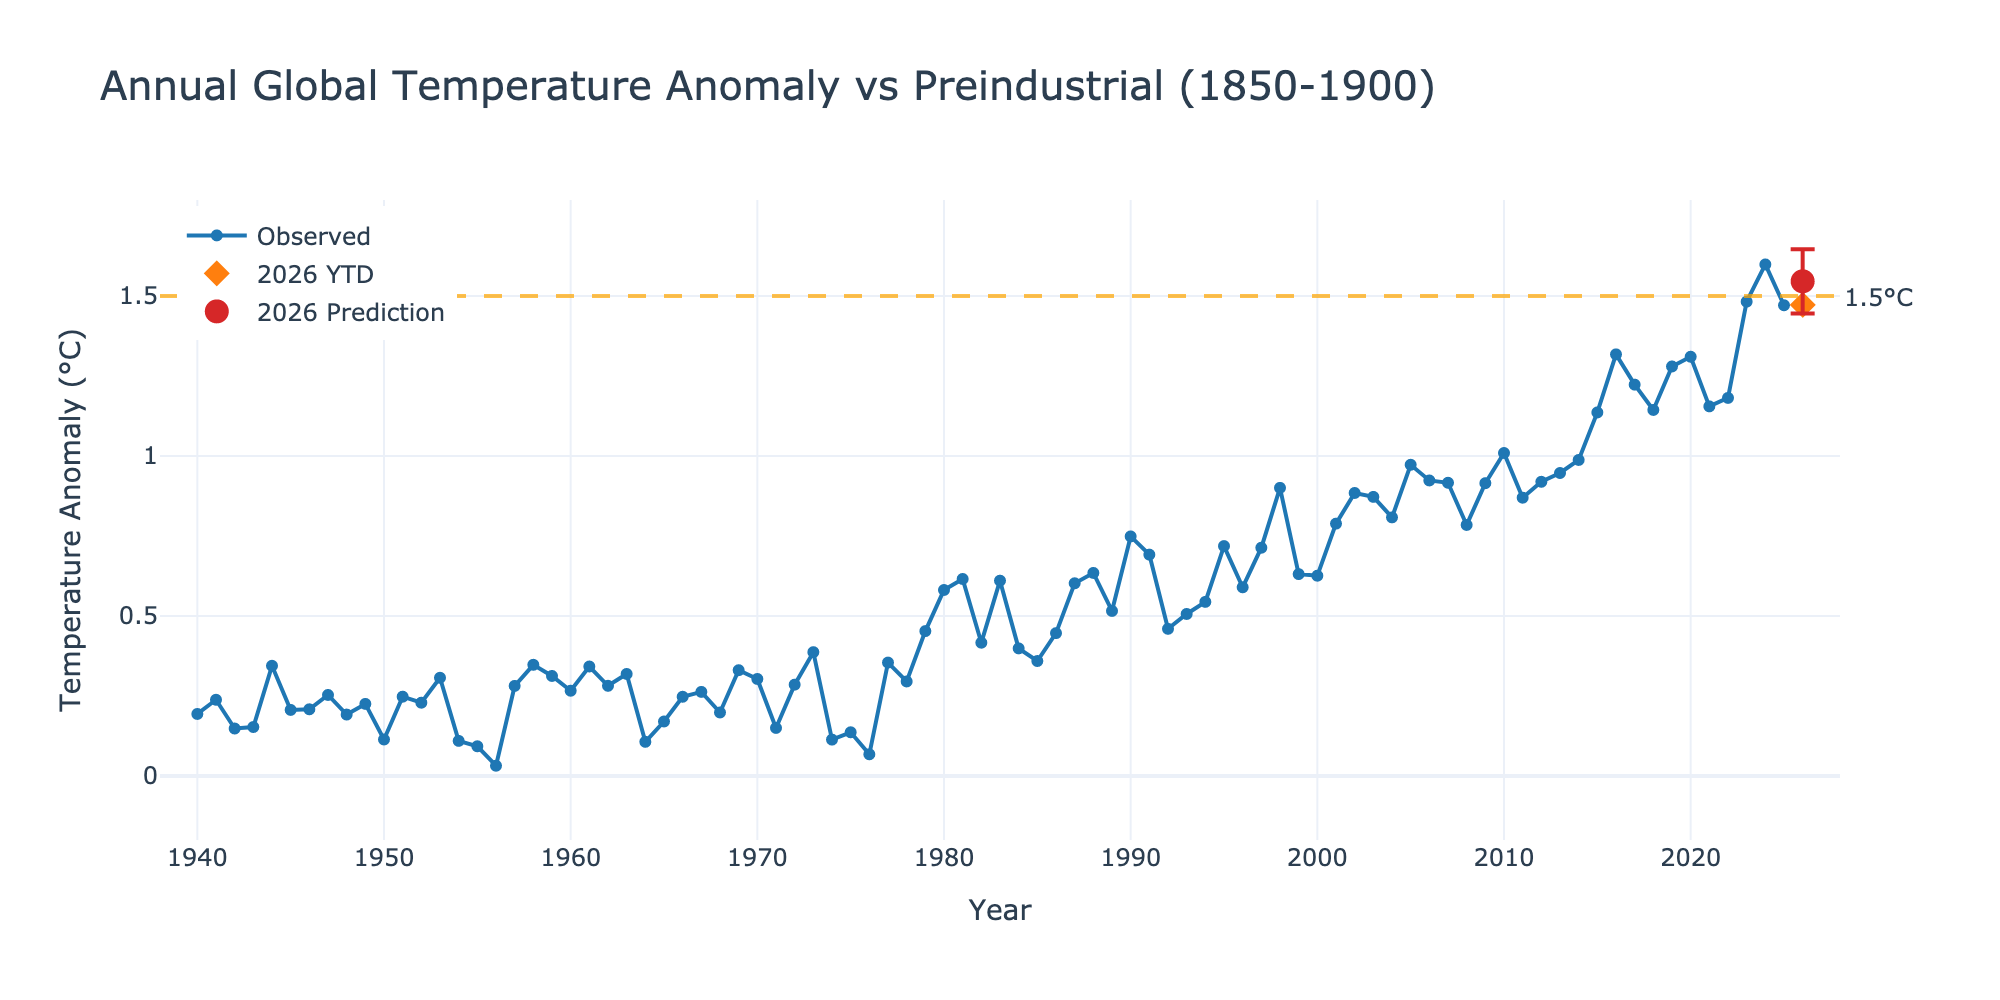
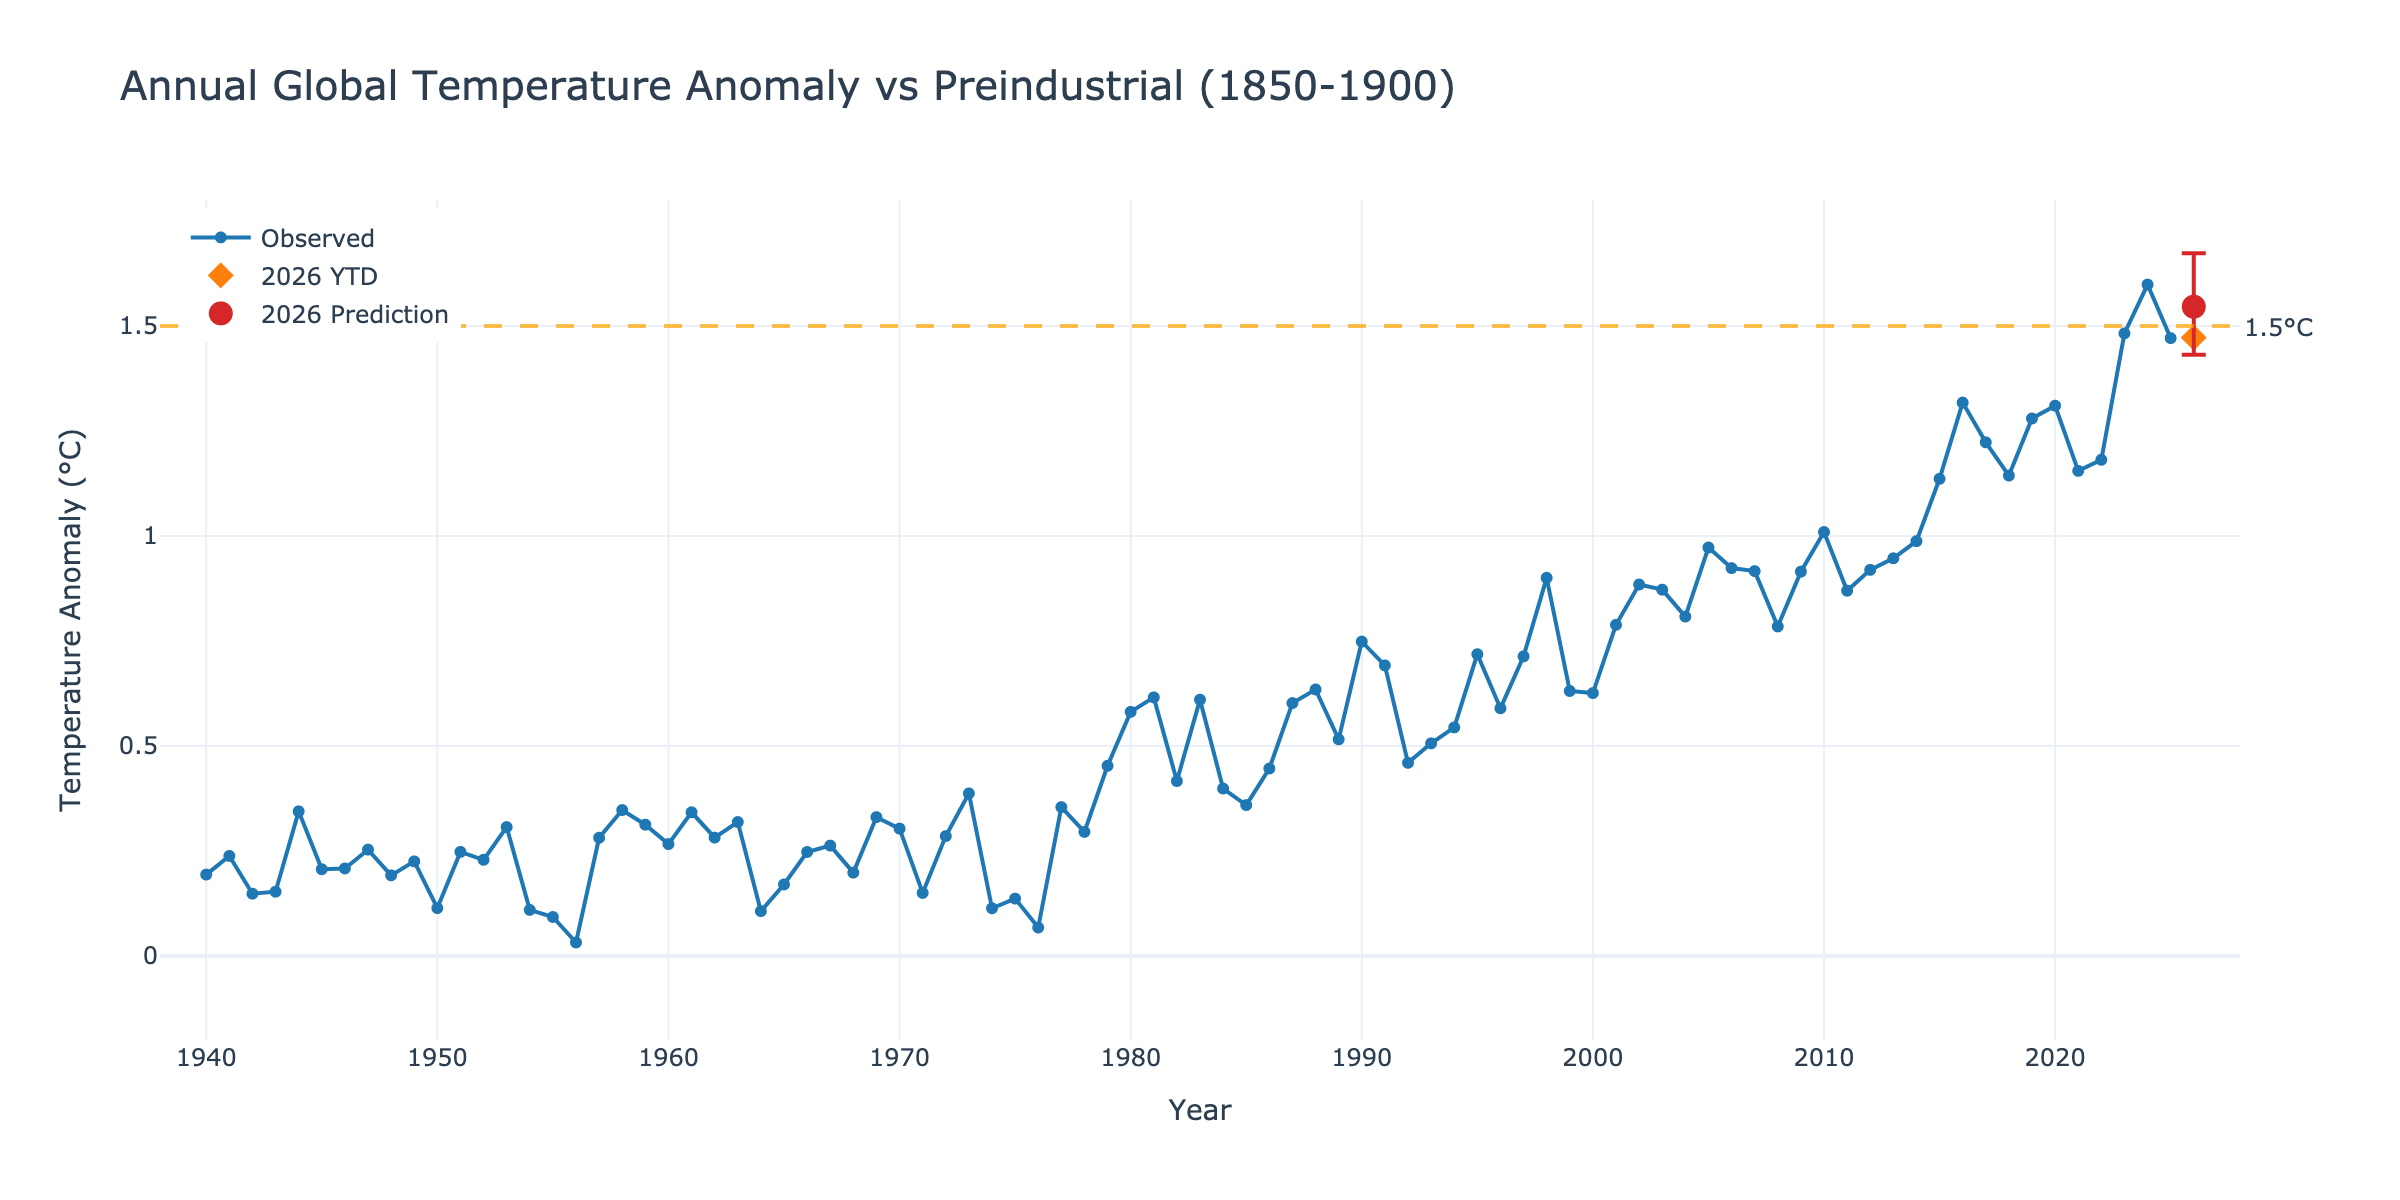
Monte Carlo over ENSO ensemble for annual prediction CI
The dashboard's annual projection feeds the regression a single ENSO
trajectory (the model-weighted multi-model median), so the published
±2σ band only reflects regression-residual uncertainty and ignores
forecast spread. Add a Monte Carlo step that samples per-member
ENSO trajectories with equal weight per model (so a 130-member forecast
doesn't drown out a 10-member one) and propagates them through the
fitted regression with a Gaussian residual draw.

The central estimate still uses the multi-model median (unchanged); the
2.5/97.5 percentile bounds replace the analytic ±2σ. For 2026 (May init)
the CI widens ~20% (0.20°C → 0.24°C) and skews mildly upward, reflecting
the right-skewed ENSO ensemble. Falls back to analytic ±2σ if member
fetch fails.

diff --git a/src/annual_prediction_mc.py b/src/annual_prediction_mc.py
@@ -1,0 +1,140 @@
+"""Monte Carlo over the multi-model ENSO ensemble for the dashboard's
+annual temperature prediction.
+
+The dashboard regression takes two ENSO features:
+- ``enso_obs``    — mean ONI for months already observed in the current year
+- ``enso_future`` — mean ONI for the remaining months of the year
+
+`enso_obs` is observation-based and has no ensemble uncertainty. `enso_future`
+is the model-weighted multi-model median, which collapses the ensemble down
+to a single trajectory and therefore omits forecast spread. This module
+re-introduces that spread by sampling individual ensemble members (with
+equal weight per model so a 130-member forecast doesn't drown out a
+10-member one) and propagating each draw through the regression.
+"""
+from __future__ import annotations
+import sys
+from pathlib import Path
+
+import numpy as np
+import pandas as pd
+
+DASHBOARD = Path(__file__).resolve().parent.parent
+SOURCES = ["CFS", "NMME", "C3S", "CanSIPS"]
+
+
+def load_enso_future_members(year: int, current_month: int) -> pd.DataFrame:
+    """Per-member mean ONI over months ``> current_month`` of ``year``.
+
+    Returns a DataFrame with columns ``model``, ``member_id``, ``enso_future``.
+    Only members with a forecast for *every* future month are kept, so the
+    per-member mean is comparable across the ensemble.
+    """
+    sys.path.insert(0, str(DASHBOARD))
+    sys.path.insert(0, str(DASHBOARD / "ENSO"))
+    from enso_forecast.normalize import load_all_forecasts
+    from enso_forecast.visualize import _build_mega_df, _get_forecast_only
+
+    forecast_df = load_all_forecasts(sources=SOURCES)
+    mega = _build_mega_df(_get_forecast_only(forecast_df))
+    members = mega[mega["member_id"] != "mean"].copy()
+    members["period"] = pd.to_datetime(members["target_month"]).dt.to_period("M")
+
+    future_periods = [
+        pd.Period(f"{year}-{m:02d}", "M")
+        for m in range(current_month + 1, 13)
+    ]
+    if not future_periods:
+        return pd.DataFrame(columns=["model", "member_id", "enso_future"])
+
+    members = members[members["period"].isin(future_periods)]
+    members = members.dropna(subset=["nino34_anom"])
+    pivot = members.pivot_table(
+        index=["model", "member_id"], columns="period",
+        values="nino34_anom", aggfunc="first",
+    )
+    full = pivot.dropna(how="any")
+    if full.empty:
+        return pd.DataFrame(columns=["model", "member_id", "enso_future"])
+    out = full.mean(axis=1).rename("enso_future").reset_index()
+    return out
+
+
+def _model_weights(members: pd.DataFrame) -> np.ndarray:
+    """Equal weight per model (1/n_models), split evenly across that model's
+    members."""
+    counts = members.groupby("model").size()
+    n_models = len(counts)
+    w = np.array([1.0 / (n_models * counts[m]) for m in members["model"]])
+    return w / w.sum()
+
+
+def monte_carlo_ci(
+    model,
+    scaler,
+    base_features: dict,
+    members: pd.DataFrame,
+    resid_std: float,
+    *,
+    feature_order: list[str],
+    n_draws: int = 10000,
+    seed: int = 0,
+) -> dict:
+    """Run Monte Carlo over ENSO members + Gaussian regression residuals.
+
+    Parameters
+    ----------
+    model, scaler
+        Fitted sklearn LinearRegression and StandardScaler.
+    base_features : dict
+        All non-ENSO-future features, keyed by name (e.g. ``year``,
+        ``prior_year_anomaly``, ``enso_obs``, ``trailing_anomaly``,
+        ``ytd_anomaly``).
+    members : DataFrame
+        Output of ``load_enso_future_members`` — one row per ensemble
+        member with column ``enso_future``.
+    resid_std : float
+        In-sample residual std of the regression (used as the σ of the
+        Gaussian residual draw).
+    feature_order : list[str]
+        Column ordering expected by ``scaler``/``model``.
+    n_draws : int
+        Total Monte Carlo draws.
+
+    Returns
+    -------
+    dict with keys ``median``, ``lb`` (2.5%), ``ub`` (97.5%), ``draws``,
+    ``n_members``, ``n_models``.
+    """
+    if members is None or members.empty:
+        raise ValueError("No ENSO members available for Monte Carlo.")
+
+    weights = _model_weights(members)
+    enso_future_vals = members["enso_future"].values
+    n_models = members["model"].nunique()
+
+    rng = np.random.default_rng(seed)
+    idx = rng.choice(len(members), size=n_draws, replace=True, p=weights)
+    sampled_enso = enso_future_vals[idx]
+
+    # Build feature matrix with sampled enso_future, holding all others fixed
+    X = np.tile(
+        np.array([base_features[c] for c in feature_order], dtype=float),
+        (n_draws, 1),
+    )
+    enso_idx = feature_order.index("enso_future")
+    X[:, enso_idx] = sampled_enso
+
+    X_scaled = scaler.transform(X)
+    point = model.predict(X_scaled)
+    residuals = rng.normal(0.0, resid_std, size=n_draws)
+    draws = point + residuals
+
+    return {
+        "median": float(np.median(draws)),
+        "lb": float(np.quantile(draws, 0.025)),
+        "ub": float(np.quantile(draws, 0.975)),
+        "draws": draws,
+        "n_members": len(members),
+        "n_models": int(n_models),
+    }

diff --git a/src/dashboard.py b/src/dashboard.py
@@ -965,17 +965,43 @@ def create_annual_prediction_plot(df: pd.DataFrame, enso_df: pd.DataFrame = None
                 X_pred_scaled = scaler.transform(X_pred)
                 pred = model.predict(X_pred_scaled)[0]
 
+                # Monte Carlo over ENSO ensemble members for the CI
+                lb, ub = pred - 2 * uncertainty, pred + 2 * uncertainty
+                try:
+                    from src.annual_prediction_mc import (
+                        load_enso_future_members, monte_carlo_ci,
+                    )
+                    members = load_enso_future_members(int(current_year), int(current_month))
+                    if not members.empty:
+                        mc = monte_carlo_ci(
+                            model, scaler,
+                            base_features={
+                                'year': current_year,
+                                'prior_year_anomaly': prior_year_anomaly,
+                                'enso_obs': enso_obs_val,
+                                'enso_future': enso_future_val,
+                                'trailing_anomaly': current_trailing_30d,
+                                'ytd_anomaly': current_ytd_anomaly,
+                            },
+                            members=members,
+                            resid_std=uncertainty,
+                            feature_order=feature_cols,
+                        )
+                        lb, ub = mc['lb'], mc['ub']
+                except Exception:
+                    pass  # fall back to analytic ±2σ
+
                 predictions.append({
                     'year': current_year,
                     'predicted': pred,
-                    'lb': pred - 2 * uncertainty,
-                    'ub': pred + 2 * uncertainty
+                    'lb': lb,
+                    'ub': ub,
                 })
 
                 prediction_2026 = {
                     'predicted': pred,
-                    'lb': pred - 2 * uncertainty,
-                    'ub': pred + 2 * uncertainty
+                    'lb': lb,
+                    'ub': ub,
                 }
 
     pred_df = pd.DataFrame(predictions) if predictions else pd.DataFrame()
@@ -1011,6 +1037,8 @@ def create_annual_prediction_plot(df: pd.DataFrame, enso_df: pd.DataFrame = None
 
     # Add prediction with error bar for current year
     if prediction_2026:
+        up = prediction_2026['ub'] - prediction_2026['predicted']
+        down = prediction_2026['predicted'] - prediction_2026['lb']
         fig.add_trace(go.Scatter(
             x=[current_year],
             y=[prediction_2026['predicted']],
@@ -1019,13 +1047,15 @@ def create_annual_prediction_plot(df: pd.DataFrame, enso_df: pd.DataFrame = None
             marker=dict(color=theme['prediction_color'], size=12, symbol='circle'),
             error_y=dict(
                 type='data',
-                array=[prediction_2026['ub'] - prediction_2026['predicted']],
+                symmetric=False,
+                array=[up],
+                arrayminus=[down],
                 visible=True,
                 color=theme['prediction_color'],
                 thickness=2,
                 width=6
             ),
-            hovertemplate=f'{current_year} Prediction<br>%{{y:.2f}}°C (±{prediction_2026["ub"] - prediction_2026["predicted"]:.2f}°C)<extra></extra>'
+            hovertemplate=f'{current_year} Prediction<br>%{{y:.2f}}°C (+{up:.2f}/-{down:.2f}°C)<extra></extra>'
         ))
 
     # Add 1.5°C reference line
@@ -1593,6 +1623,34 @@ def create_statistics_cards(df: pd.DataFrame) -> dict:
                     X_pred = np.array([[current_year, prev_year_mean, enso_obs_val, enso_future_val, current_trailing_30d, current_ytd_anomaly]])
                     X_pred_scaled = scaler.transform(X_pred)
                     annual_pred = model.predict(X_pred_scaled)[0]
+
+                    # Monte Carlo over ENSO ensemble members → CI half-width
+                    try:
+                        from src.annual_prediction_mc import (
+                            load_enso_future_members, monte_carlo_ci,
+                        )
+                        members = load_enso_future_members(int(current_year), int(current_month))
+                        if not members.empty:
+                            mc = monte_carlo_ci(
+                                model, scaler,
+                                base_features={
+                                    'year': current_year,
+                                    'prior_year_anomaly': prev_year_mean,
+                                    'enso_obs': enso_obs_val,
+                                    'enso_future': enso_future_val,
+                                    'trailing_anomaly': current_trailing_30d,
+                                    'ytd_anomaly': current_ytd_anomaly,
+                                },
+                                members=members,
+                                resid_std=annual_err,
+                                feature_order=['year', 'prior_year_anomaly', 'enso_obs',
+                                               'enso_future', 'trailing_anomaly', 'ytd_anomaly'],
+                            )
+                            # Express the (possibly asymmetric) MC CI as a half-width
+                            # so existing ±-style display logic stays sensible.
+                            annual_err = max((mc['ub'] - mc['lb']) / 4.0, 0.02)
+                    except Exception:
+                        pass  # fall back to analytic residual std
     except Exception as e:
         pass  # Use default if prediction fails
 